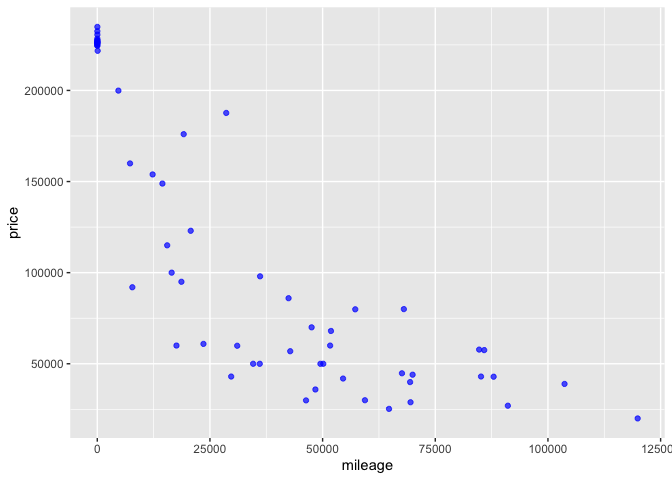
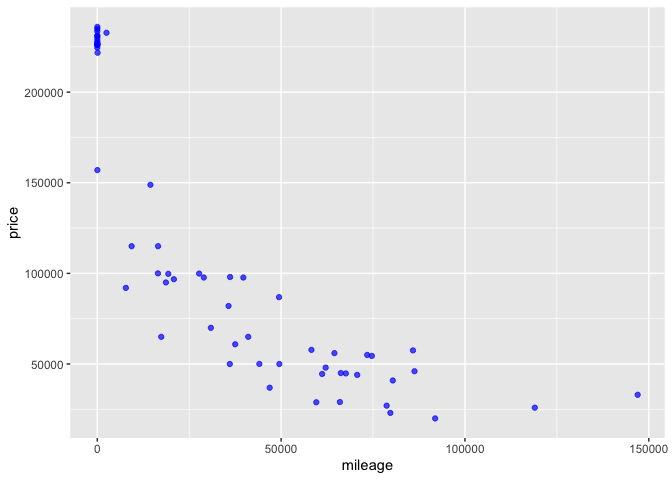
no message

diff --git a/DataMining_HW1_WeiZhou copy.md b/DataMining_HW1_WeiZhou copy.md
@@ -286,14 +286,14 @@ highest average delay time amount.
     best_k = k[which.min(knn_test_rmse)]
     best_k
 
-    ## [1] 5
+    ## [1] 14
 
 *Find overfitting, underfitting, and “best” k*
 
     fit_status = ifelse(k < best_k, "Over", ifelse(k == best_k, "Best", "Under"))
     best_k
 
-    ## [1] 5
+    ## [1] 14
 
 *Summarize results*
 
@@ -318,7 +318,7 @@ highest average delay time amount.
     knnop1 = knnreg(price ~ mileage, data=sclass350_train, k=best_k)
     rmse(knnop1, sclass350_test)
 
-    ## [1] 10712.46
+    ## [1] 11189.31
 
     sclass350_test = sclass350_test %>%
       mutate(s350_pred = predict(knnop1, sclass350_test))
@@ -377,14 +377,14 @@ highest average delay time amount.
     best_k = k[which.min(knn_test_rmse)]
     best_k
 
-    ## [1] 13
+    ## [1] 12
 
 *Find overfitting, underfitting, and “best” k*
 
     fit_status = ifelse(k < best_k, "Over", ifelse(k == best_k, "Best", "Under"))
     best_k
 
-    ## [1] 13
+    ## [1] 12
 
 *Summarize results*
 
@@ -409,7 +409,7 @@ highest average delay time amount.
     knnop2 = knnreg(price ~ mileage, data=sclass65_train, k=best_k)
     modelr::rmse(knnop2, sclass65_test)
 
-    ## [1] 26207.37
+    ## [1] 18021.6
 
     sclass65_test = sclass65_test %>%
       mutate(s65_pred = predict(knnop2, sclass65_test))
@@ -430,10 +430,11 @@ Since I randomly split the training set and test set, every time I get
 different k value, for both trim.
 
 However, the trim of 65AMG tend to have a larger optimal k, because its
-sample size is smaller than trim 350. When the sample size is smaller,
-there are less points in a same region, and thus we’ll get higher bias
-and lower variance. In order to reduce the bias, we need a larger
-optimal k to get more information.
+sample size is smaller than trim 350. In the group of trim 350, the
+sample size is larger, and there are more points in a same region, and
+thus we’ll get higher bias and lower variance. In order to reduce the
+bias, we need to shrink the region and get a smaller optimal k. Vise
+versa, the group of 65AMG tends to have a larger best k.
 
 In addition, we also need to consider other facts as well, such as the
 balance of the data. For example, when more data is on one side, and
